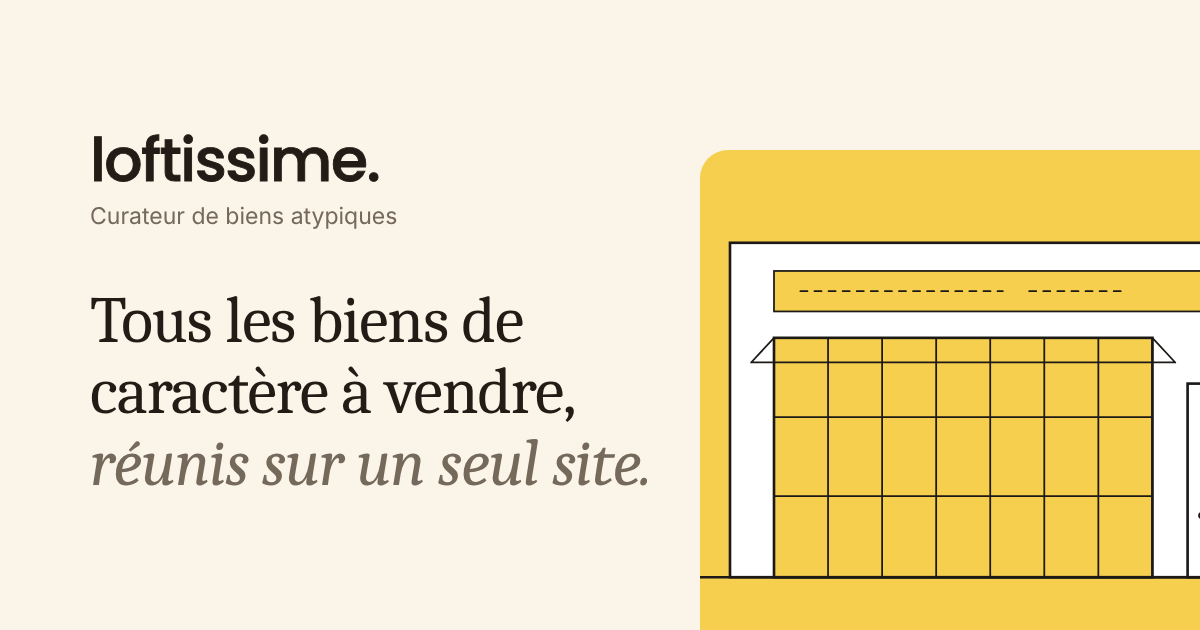
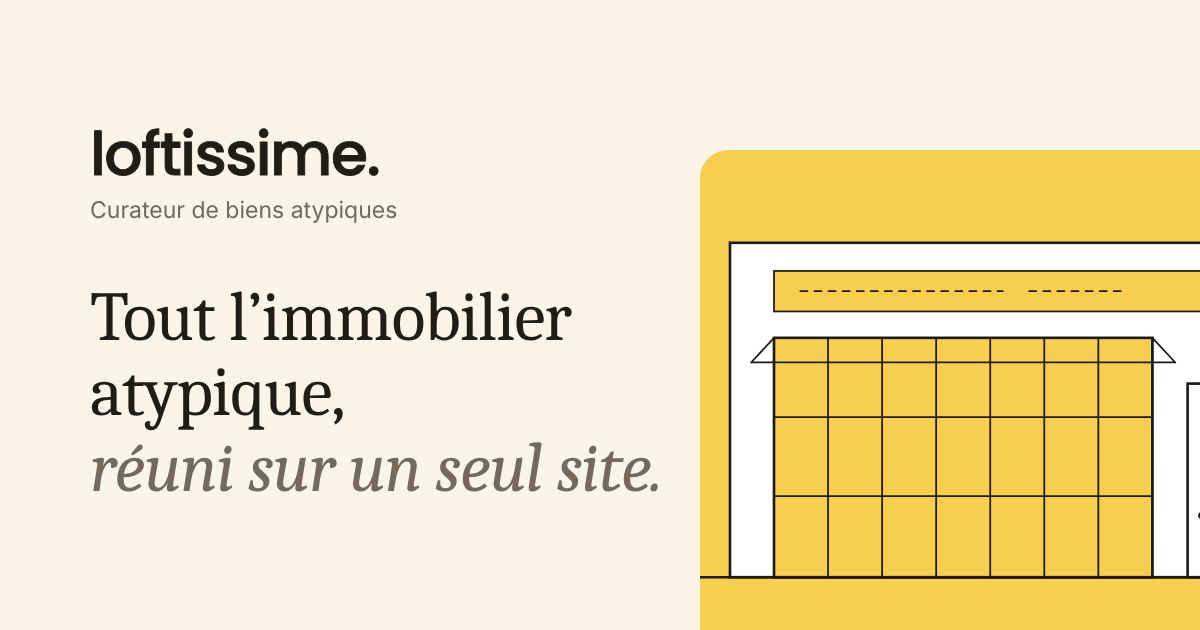
Accueil : « Tout l'immobilier atypique, réuni sur un seul site. »
Claude-Session: https://claude.ai/code/session_015aKJiDLUy7h6cRtFn1LWuo

Changed region(s): [[0.0617, 0.573, 0.555, 0.7841], [0.0617, 0.2111, 0.3392, 0.3619], [0.0617, 0.4524, 0.4933, 0.5429]]

diff --git a/frontend/app/HomeClient.tsx b/frontend/app/HomeClient.tsx
@@ -666,7 +666,7 @@ export default function HomeClient({ initialListings, newArticles = 0, stories =
         <div>
         <header className="pb-8 md:pb-10 text-center"><HeroTitle /></header>
         <section>
-        <div className="max-w-3xl mx-auto flex gap-2">
+        <div className="max-w-4xl mx-auto flex gap-2">
           <div className="relative flex-1">
             <Search className="w-5 h-5 absolute left-6 top-1/2 -translate-y-1/2 text-stone-500" />
             <input
@@ -773,7 +773,7 @@ export default function HomeClient({ initialListings, newArticles = 0, stories =
           </button>
         </div>
 
-        <div className="max-w-3xl mx-auto text-left" aria-live="polite">
+        <div className="max-w-4xl mx-auto text-left" aria-live="polite">
           {geo === 'denied' && (
             <p className="mt-2 text-xs text-stone-500">La localisation est refusée sur cet appareil. Saisissez une ville ou un code postal.</p>
           )}
@@ -798,7 +798,7 @@ export default function HomeClient({ initialListings, newArticles = 0, stories =
         </div>
 
         {(places.length > 0 || (searchActive && !onlyFavs)) && (
-          <div className="max-w-3xl mx-auto mt-3 flex flex-wrap items-center gap-2" aria-live="polite">
+          <div className="max-w-4xl mx-auto mt-3 flex flex-wrap items-center gap-2" aria-live="polite">
             {places.map((p) => (
               <span
                 key={p.kind + p.city + p.value}

diff --git a/frontend/app/HeroTitle.tsx b/frontend/app/HeroTitle.tsx
@@ -3,11 +3,11 @@
 export default function HeroTitle() {
   return (
     <>
-      <h1 className="text-[2.2rem] md:text-[3.25rem] font-serif tracking-tight text-stone-900 leading-[1.1] [text-wrap:balance]">
-        Tous les biens de caractère à vendre, <span className="italic text-stone-500 md:block">réunis sur un seul site.</span>
+      <h1 className="text-[2.2rem] md:text-[3.25rem] xl:whitespace-nowrap font-serif tracking-tight text-stone-900 leading-[1.1] [text-wrap:balance]">
+        Tout l’immobilier atypique, <span className="italic text-stone-500">réuni sur un seul site.</span>
       </h1>
       <p className="mt-4 text-base md:text-lg font-light leading-relaxed text-stone-600 [text-wrap:balance]">
-        L’atypique et rien d’autre.
+        Lofts, ateliers d’artistes, toits-terrasses, biens de caractère.
       </p>
     </>
   );
